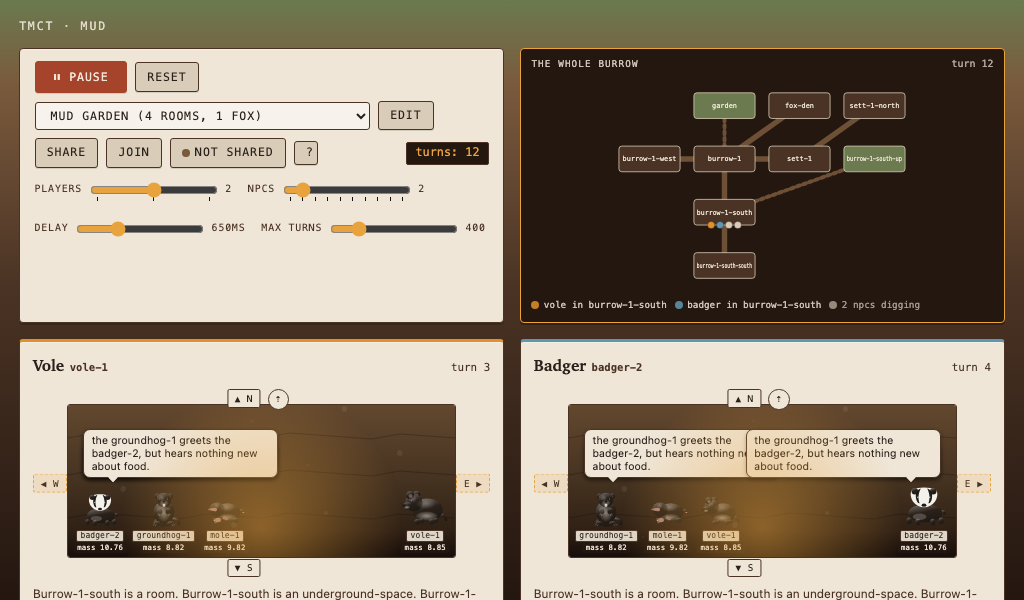
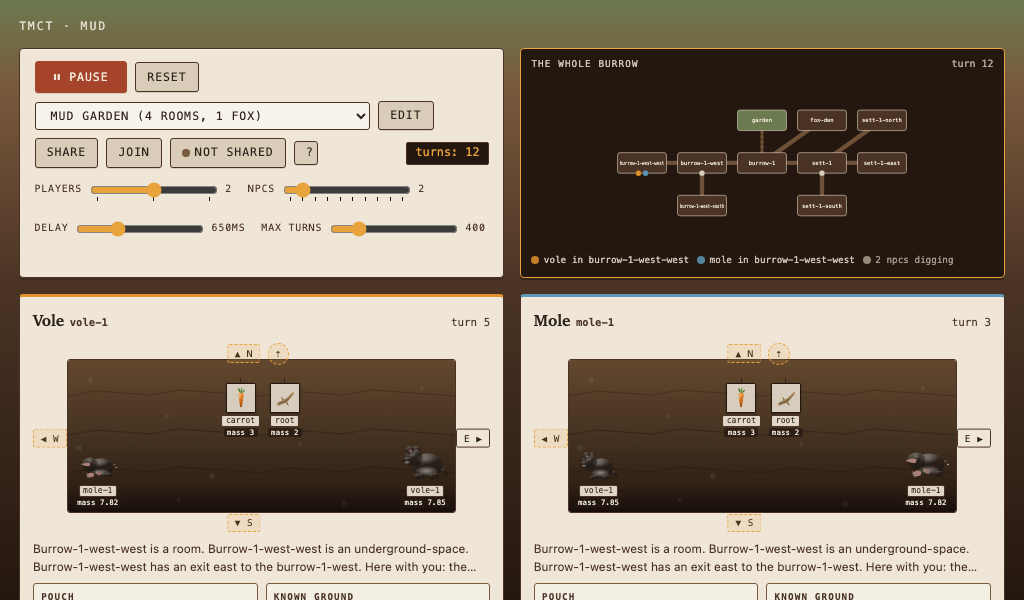
chore: roll patch version to 4.1.1

diff --git a/public/index.html b/public/index.html
@@ -802,7 +802,7 @@ await runChat({
       <a href="https://gitlab.com/polycode-projects/the-mechanical-code-talker">repository</a>
       &middot;
       <a href="https://www.npmjs.com/package/@polycode-projects/the-mechanical-code-talker">npm</a>
-      &middot; this page documents <span id="pkg-version">4.1.0</span>
+      &middot; this page documents <span id="pkg-version">4.1.1</span>
       &middot; &copy; Polycode Limited.</p>
   </footer>
 </main>
